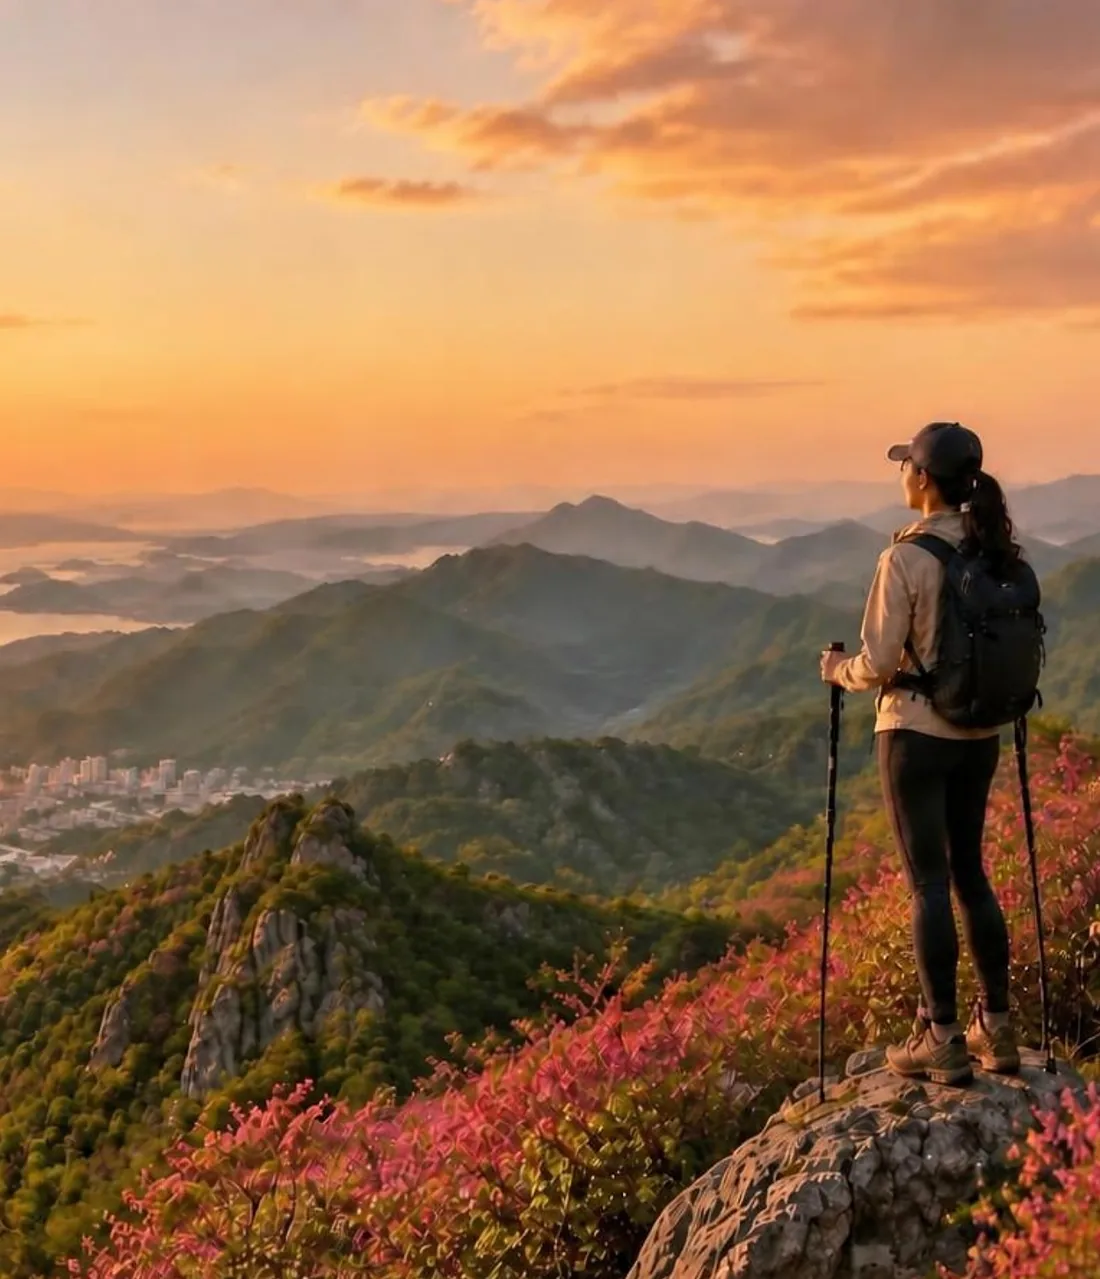
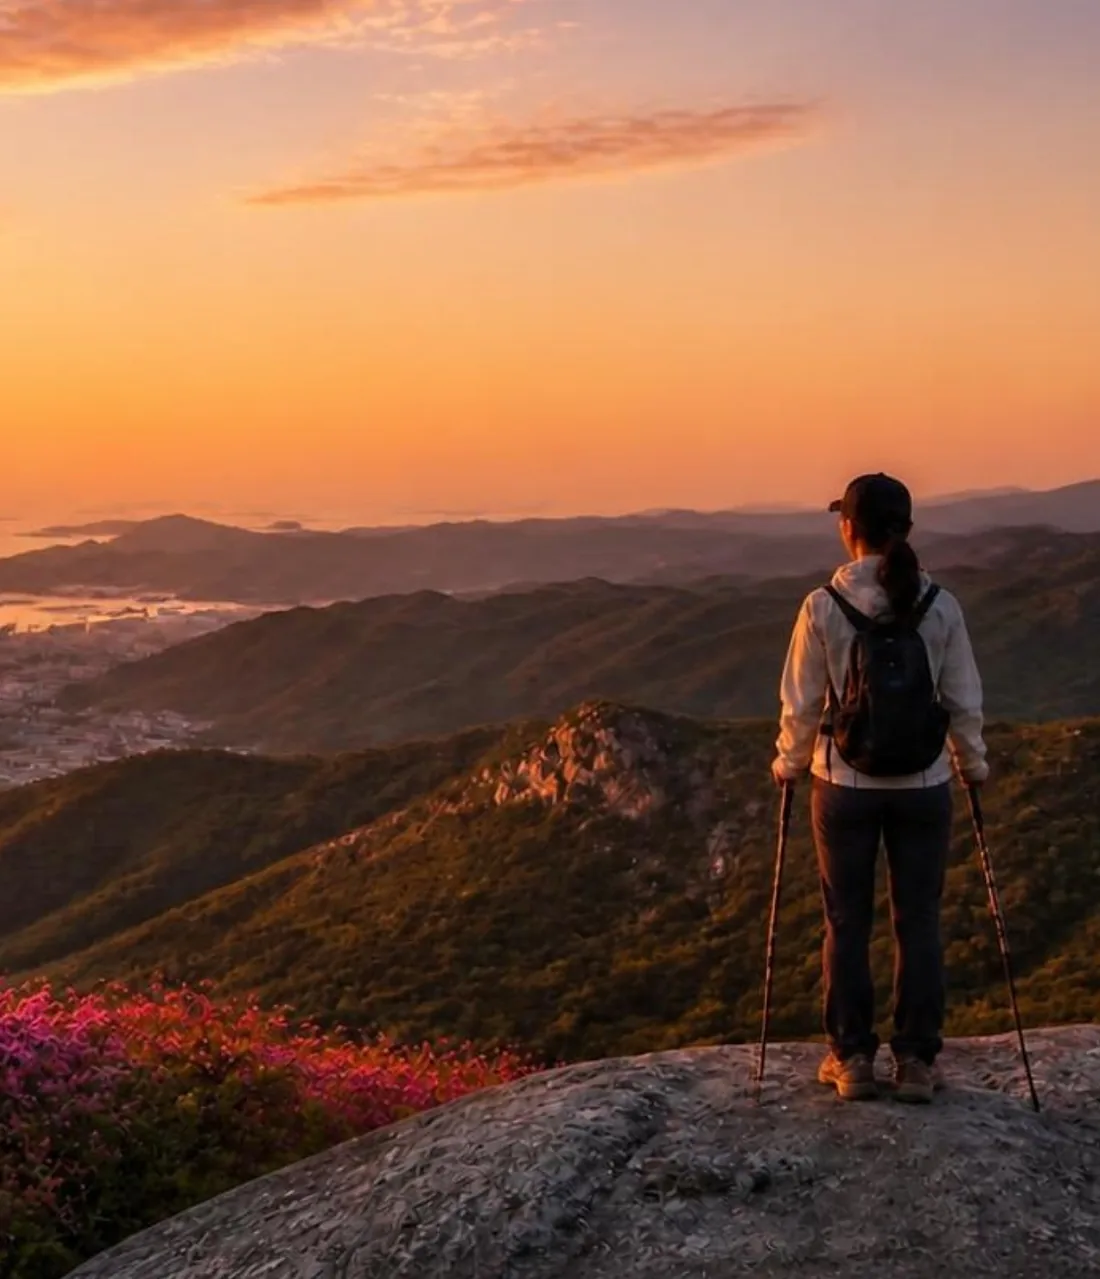
히어로 봄 저녁 v11 적용 (승인 참조 기준 검수 통과) (#46)
Claude-Session: https://claude.ai/code/session_01TTPn3ts8fEyWREDupZmwxM

diff --git a/_src.html b/_src.html
@@ -13,7 +13,7 @@
 (function(){var k="";try{var d=new Date(),M=d.getMonth()+1,h=d.getHours();
 var s=M>=3&&M<=5?"spring":M>=6&&M<=8?"summer":M>=9&&M<=11?"autumn":"winter";
 var t=h>=4&&h<7?"dawn":h>=7&&h<17?"day":h>=17&&h<21?"evening":"night";k=s+"-"+t;
-var READY={"spring-dawn":1,"spring-day":1};/* 검수 통과분만 노출, 나머지는 원본 히어로 */
+var READY={"spring-dawn":1,"spring-day":1,"spring-evening":1};/* 검수 통과분만 노출, 나머지는 원본 히어로 */
 window.__heroReady=READY;if(!READY[k])k="";
 var q=/[?&]hero=((?:spring|summer|autumn|winter)-(?:dawn|day|evening|night))(?:&|$)/.exec(location.search);if(q&&READY[q[1]])k=q[1];}catch(e){k="";}
 window.__hero=k;var a=k?"/img/hero/"+k:"/img/hero",b=k?"/img/hero/"+k+"-m.webp":"/img/hero-m.webp";
@@ -333,7 +333,7 @@ footer{background:var(--dark);color:rgba(255,255,255,.5);border-top:1px solid rg
       <img class="bg" id="heroImg" width="2560" height="1280" alt="산 정상 바위에 서서 다도해와 겹겹의 산줄기를 바라보는 등산객" fetchpriority="high" />
     </picture>
     <script>(function(){var k=window.__hero,i=document.getElementById("heroImg"),s=document.getElementById("heroSrc"),w=document.getElementById("bgwrap");
-var C={"spring-dawn":["#c69d96","#43383d"],"spring-day":["#6eb0dc","#6d705e"],"spring-evening":["#d7a373","#75522f"],"spring-night":["#08172b","#1b1515"],"summer-dawn":["#dcbba1","#5f5642"],"summer-day":["#75abe1","#3a5f55"],"summer-evening":["#c78665","#594429"],"summer-night":["#0f2951","#0c1826"],"autumn-dawn":["#9482ba","#5c4159"],"autumn-day":["#81b5db","#6b5e5b"],"autumn-evening":["#c69164","#693821"],"autumn-night":["#1b293a","#17151a"],"winter-dawn":["#a8acce","#475986"],"winter-day":["#afcfee","#77879c"],"winter-evening":["#8d7575","#4e3f4f"],"winter-night":["#182742","#1c273d"]};function fb(){s.srcset="/img/hero-m.webp";i.src="/img/hero.webp";w.style.backgroundImage="";}
+var C={"spring-dawn":["#c69d96","#43383d"],"spring-day":["#6eb0dc","#6d705e"],"spring-evening":["#da9c6b","#492b22"],"spring-night":["#08172b","#1b1515"],"summer-dawn":["#dcbba1","#5f5642"],"summer-day":["#75abe1","#3a5f55"],"summer-evening":["#c78665","#594429"],"summer-night":["#0f2951","#0c1826"],"autumn-dawn":["#9482ba","#5c4159"],"autumn-day":["#81b5db","#6b5e5b"],"autumn-evening":["#c69164","#693821"],"autumn-night":["#1b293a","#17151a"],"winter-dawn":["#a8acce","#475986"],"winter-day":["#afcfee","#77879c"],"winter-evening":["#8d7575","#4e3f4f"],"winter-night":["#182742","#1c273d"]};function fb(){s.srcset="/img/hero-m.webp";i.src="/img/hero.webp";w.style.backgroundImage="";}
 if(!k){fb();return;}i.addEventListener("error",function(){if(!i.getAttribute("data-fb")){i.setAttribute("data-fb","1");fb();}});
 if(C[k])w.style.backgroundImage="linear-gradient(180deg,"+C[k][0]+","+C[k][1]+")";
 s.srcset="/img/hero/"+k+"-m.webp";i.src="/img/hero/"+k+".webp";})();</script>

diff --git a/index.html b/index.html
@@ -13,7 +13,7 @@
 (function(){var k="";try{var d=new Date(),M=d.getMonth()+1,h=d.getHours();
 var s=M>=3&&M<=5?"spring":M>=6&&M<=8?"summer":M>=9&&M<=11?"autumn":"winter";
 var t=h>=4&&h<7?"dawn":h>=7&&h<17?"day":h>=17&&h<21?"evening":"night";k=s+"-"+t;
-var READY={"spring-dawn":1,"spring-day":1};/* 검수 통과분만 노출, 나머지는 원본 히어로 */
+var READY={"spring-dawn":1,"spring-day":1,"spring-evening":1};/* 검수 통과분만 노출, 나머지는 원본 히어로 */
 window.__heroReady=READY;if(!READY[k])k="";
 var q=/[?&]hero=((?:spring|summer|autumn|winter)-(?:dawn|day|evening|night))(?:&|$)/.exec(location.search);if(q&&READY[q[1]])k=q[1];}catch(e){k="";}
 window.__hero=k;var a=k?"/img/hero/"+k:"/img/hero",b=k?"/img/hero/"+k+"-m.webp":"/img/hero-m.webp";
@@ -333,7 +333,7 @@ footer{background:var(--dark);color:rgba(255,255,255,.5);border-top:1px solid rg
       <img class="bg" id="heroImg" width="2560" height="1280" alt="산 정상 바위에 서서 다도해와 겹겹의 산줄기를 바라보는 등산객" fetchpriority="high" />
     </picture>
     <script>(function(){var k=window.__hero,i=document.getElementById("heroImg"),s=document.getElementById("heroSrc"),w=document.getElementById("bgwrap");
-var C={"spring-dawn":["#c69d96","#43383d"],"spring-day":["#6eb0dc","#6d705e"],"spring-evening":["#d7a373","#75522f"],"spring-night":["#08172b","#1b1515"],"summer-dawn":["#dcbba1","#5f5642"],"summer-day":["#75abe1","#3a5f55"],"summer-evening":["#c78665","#594429"],"summer-night":["#0f2951","#0c1826"],"autumn-dawn":["#9482ba","#5c4159"],"autumn-day":["#81b5db","#6b5e5b"],"autumn-evening":["#c69164","#693821"],"autumn-night":["#1b293a","#17151a"],"winter-dawn":["#a8acce","#475986"],"winter-day":["#afcfee","#77879c"],"winter-evening":["#8d7575","#4e3f4f"],"winter-night":["#182742","#1c273d"]};function fb(){s.srcset="/img/hero-m.webp";i.src="/img/hero.webp";w.style.backgroundImage="";}
+var C={"spring-dawn":["#c69d96","#43383d"],"spring-day":["#6eb0dc","#6d705e"],"spring-evening":["#da9c6b","#492b22"],"spring-night":["#08172b","#1b1515"],"summer-dawn":["#dcbba1","#5f5642"],"summer-day":["#75abe1","#3a5f55"],"summer-evening":["#c78665","#594429"],"summer-night":["#0f2951","#0c1826"],"autumn-dawn":["#9482ba","#5c4159"],"autumn-day":["#81b5db","#6b5e5b"],"autumn-evening":["#c69164","#693821"],"autumn-night":["#1b293a","#17151a"],"winter-dawn":["#a8acce","#475986"],"winter-day":["#afcfee","#77879c"],"winter-evening":["#8d7575","#4e3f4f"],"winter-night":["#182742","#1c273d"]};function fb(){s.srcset="/img/hero-m.webp";i.src="/img/hero.webp";w.style.backgroundImage="";}
 if(!k){fb();return;}i.addEventListener("error",function(){if(!i.getAttribute("data-fb")){i.setAttribute("data-fb","1");fb();}});
 if(C[k])w.style.backgroundImage="linear-gradient(180deg,"+C[k][0]+","+C[k][1]+")";
 s.srcset="/img/hero/"+k+"-m.webp";i.src="/img/hero/"+k+".webp";})();</script>
